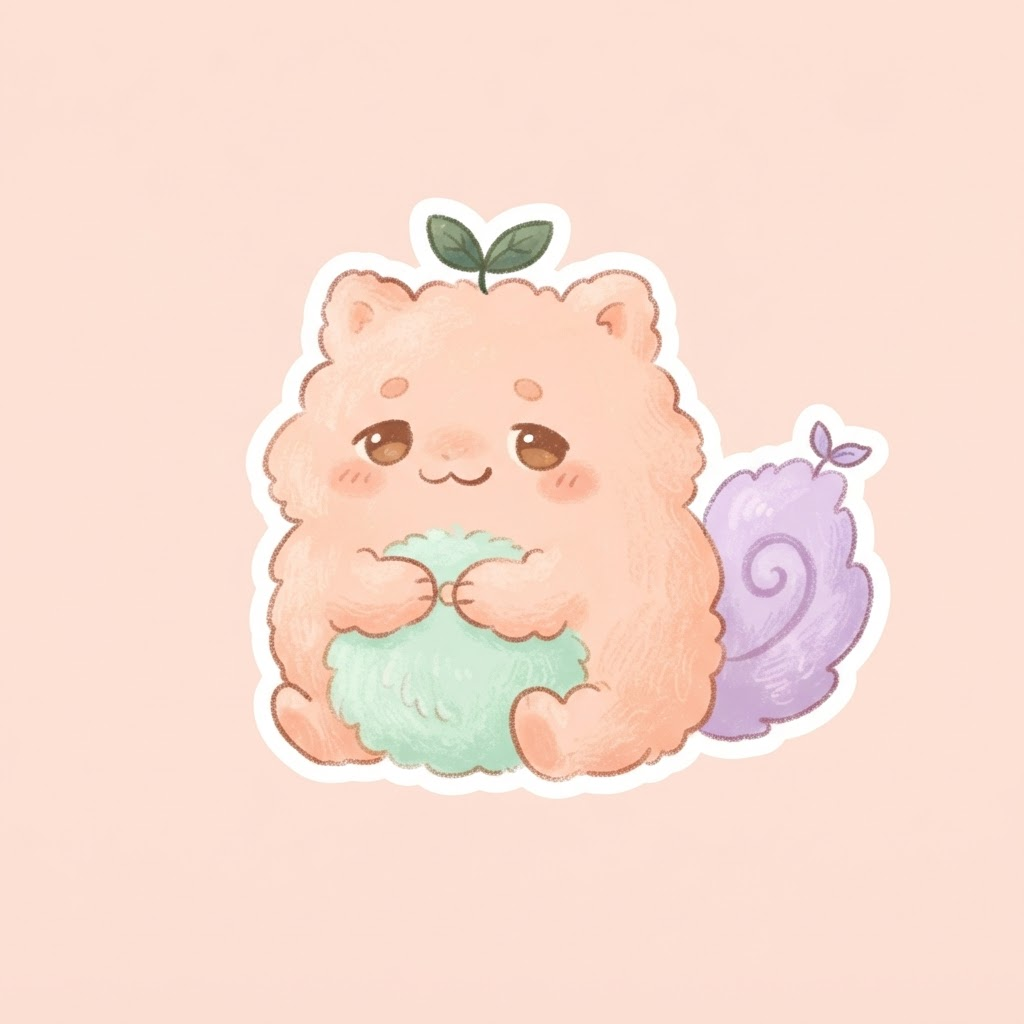
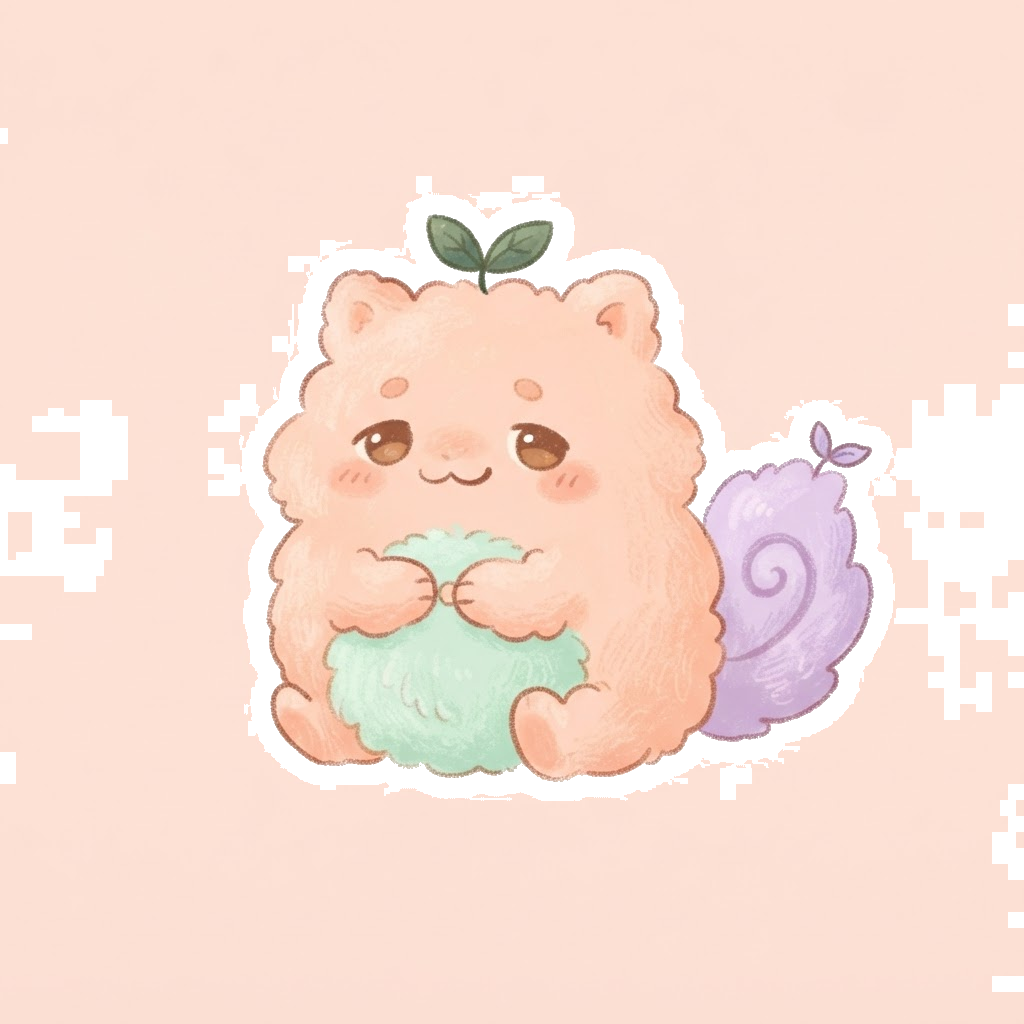
feat: update color variables and mascot animations in globals.css

diff --git a/app/globals.css b/app/globals.css
@@ -1,6 +1,6 @@
 @import url('https://fonts.googleapis.com/css2?family=Kiwi+Maru:wght@400;500&family=Nunito:wght@400;600;700;800&display=swap');
 @import 'tailwindcss';
-:root{--background:#fffaf7;--foreground:#66545d;--card:#fff;--primary:#ee9296;--muted-foreground:#a18e94;--border:#f2e5e1}*{box-sizing:border-box}body{margin:0;background:var(--background);color:var(--foreground);font-family:'Nunito','Kiwi Maru',sans-serif}button,input{font:inherit}button{cursor:pointer}.app-shell{min-height:100vh;padding:16px 14px 105px;background:radial-gradient(circle at 20% 0%,#fff0ec 0 14rem,transparent 30rem),var(--background)}.phone-content{width:100%;max-width:480px;margin:auto}.topbar{display:flex;justify-content:space-between;align-items:center;padding:5px 4px 16px}.brand-mark{color:#735f68;font-size:23px;font-weight:800;letter-spacing:-.08em}.brand-mark span{color:#e8878e}.round-button{border:1px solid var(--border);background:#fff;color:#e89099;width:40px;height:40px;border-radius:50%;display:grid;place-items:center;box-shadow:0 5px 15px #dfc7c533}.page-title{display:flex;align-items:center;justify-content:space-between;margin:2px 5px 17px}.page-title h1{margin:0;color:#63515a;font:500 25px/1.45 'Kiwi Maru',sans-serif}.page-title h1 span{color:#e78991}.eyebrow{margin:0 0 7px;color:#d78c91;font-size:10px;letter-spacing:.15em;font-weight:800}.mascot-blend{width:64px;height:64px;border-radius:25px;background:linear-gradient(135deg,#ffe2df,#fff0da);display:grid;place-items:center;overflow:hidden}.tiny-mascot{width:58px;height:58px;object-fit:contain;mix-blend-mode:multiply}.section-block,.habits-section{margin-top:27px}.welcome-card{position:relative;overflow:hidden;min-height:225px;border-radius:30px;padding:27px 22px;background:linear-gradient(135deg,#ffe2df,#fff0da);box-shadow:0 12px 30px #e3bbb640}.welcome-card h2{margin:0;color:#63515a;font:500 26px/1.45 'Kiwi Maru',sans-serif}.welcome-card h2 span{color:#e78991}.welcome-card p:not(.eyebrow){color:#876f77;font-size:13px;line-height:1.8;margin:13px 0 0}.welcome-card img{position:absolute;right:2px;bottom:-2px;width:155px;mix-blend-mode:multiply}.section-block h2,.habits-section h2{margin:0 0 16px;color:#63515a;font:500 22px/1.5 'Kiwi Maru',sans-serif}.input-grid{display:grid;grid-template-columns:1fr 1fr;gap:10px;margin-top:18px}.input-card{display:grid;gap:12px;padding:17px 14px;background:#fff;border:1px solid var(--border);border-radius:22px;color:#917d84;font-size:12px;font-weight:700;box-shadow:0 5px 15px #dfc7c526}.number-input{display:flex;align-items:baseline;gap:4px}.number-input input{width:75px;border:0;outline:0;background:transparent;color:#e3838c;font-size:30px;font-weight:800}.number-input span{font-size:12px;color:#a18e94}.primary-button{width:100%;margin-top:14px;border:0;border-radius:18px;padding:16px;background:#efa0a3;color:#fff;font-weight:800;box-shadow:0 8px 18px #eea6a64d}.chart-card{padding:20px 16px;background:#fff;border:1px solid var(--border);border-radius:26px;box-shadow:0 5px 15px #dfc7c526}.ring-wrap{display:flex;align-items:center;gap:18px}.progress-ring{width:128px;height:128px;border-radius:50%;display:grid;place-items:center;background:conic-gradient(#ef9b9e var(--progress),#f8e7e4 0)}.ring-inner{width:98px;height:98px;border-radius:50%;background:#fffaf7;display:grid;place-items:center;align-content:center}.ring-inner strong{font-size:30px;color:#e3838c}.ring-inner span,.ring-wrap small{color:#a18e94;font-size:11px}.chart-bars{height:110px;flex:1;display:flex;align-items:end;justify-content:space-between;gap:5px}.bar-column{display:grid;gap:6px;justify-items:center;color:#b09ba0;font-size:10px}.bar-track{height:82px;width:10px;border-radius:10px;background:#f8ecea;display:flex;align-items:end}.bar-fill{width:100%;border-radius:10px;background:#f2b5af}.soft-note{padding:14px 17px;border-radius:17px;background:#eef8f4;color:#78918b;font-size:12px;line-height:1.7}.soft-note strong{color:#5e9b8c}.analysis-page{text-align:center;padding:28px 12px}.analysis-page img{width:145px;height:145px;object-fit:contain;margin:0 auto 15px;mix-blend-mode:multiply}.analysis-page h2{color:#63515a;font:500 23px/1.5 'Kiwi Maru',sans-serif}.analysis-page p:not(.eyebrow){color:#917d84;line-height:1.8;font-size:13px}.insight-meter{height:10px;margin:25px 0;background:#f7e8e4;border-radius:20px;overflow:hidden}.insight-meter span{display:block;height:100%;background:#a8d9c9;border-radius:20px;transition:width .5s}.habit-list{display:grid;gap:11px}.habit-card{width:100%;display:flex;align-items:center;gap:11px;text-align:left;border:1px solid var(--border);border-radius:21px;padding:15px;background:#eaf7f2;color:#7c8d88}.habit-card.pink{background:#fff0ec}.habit-card.lavender{background:#f2effb}.habit-check{width:25px;height:25px;display:grid;place-items:center;border-radius:50%;background:#fff;color:#79b5a5;flex:none}.habit-text{display:grid;gap:4px;flex:1}.habit-text strong{color:#6b5a62;font-size:13px}.habit-text small{font-size:11px;color:#9b898e;line-height:1.5}.tip-detail{margin:-5px 8px 3px;padding:17px;border-radius:0 0 18px 18px;background:#fff;border:1px solid var(--border);border-top:0;color:#88777c;font-size:12px;line-height:1.8}.tip-detail p{margin:0 0 12px}.tip-detail button{border:0;border-radius:13px;padding:9px 13px;background:#f3b3ae;color:#fff;font-size:11px;font-weight:800}.mascot-art,.tiny-mascot{animation:mascot-float 3.6s ease-in-out infinite;transform-origin:center bottom}.expression-worried,.expression-thinking{animation:mascot-wiggle 1.8s ease-in-out infinite}.expression-cheer,.expression-happy,.expression-hello{animation:mascot-bounce 2.2s ease-in-out infinite}.expression-insight,.expression-proud{animation:mascot-float 3s ease-in-out infinite}.expression-sleepy{animation:mascot-sway 4.5s ease-in-out infinite;opacity:.92}@keyframes mascot-float{0%,100%{transform:translateY(0) rotate(-1deg)}50%{transform:translateY(-6px) rotate(1deg)}}@keyframes mascot-bounce{0%,100%{transform:translateY(0) scale(1)}35%{transform:translateY(-8px) scale(1.03)}60%{transform:translateY(0) scale(.98)}}@keyframes mascot-wiggle{0%,100%{transform:rotate(0)}25%{transform:rotate(-3deg)}75%{transform:rotate(3deg)}}@keyframes mascot-sway{0%,100%{transform:translateY(0) rotate(-2deg)}50%{transform:translateY(3px) rotate(2deg)}}@media (prefers-reduced-motion:reduce){.mascot-art,.tiny-mascot,.expression-worried,.expression-thinking,.expression-cheer,.expression-happy,.expression-hello,.expression-insight,.expression-proud,.expression-sleepy{animation:none}}.mascot-character{position:relative;display:block;animation:mascot-float 3.6s ease-in-out infinite;transform-origin:center bottom}.mascot-character>img{width:100%;height:100%;object-fit:contain;mix-blend-mode:multiply;display:block}.mascot-blend .mascot-character{width:58px;height:58px}.mascot-art{width:155px;height:155px}@keyframes mascot-breathe{0%,100%{transform:translateY(0) rotate(-1deg)}50%{transform:translateY(-5px) rotate(1deg)}}@keyframes mascot-float{0%,100%{transform:translateY(0) rotate(-1deg)}50%{transform:translateY(-6px) rotate(1deg)}}@keyframes mascot-bounce{0%,100%{transform:translateY(0) scale(1)}35%{transform:translateY(-8px) scale(1.03)}60%{transform:translateY(0) scale(.98)}}.mascot-character:active,.mascot-tapped{animation:mascot-tap .45s ease-out!important}.expression-thinking,.expression-worried{animation:mascot-wiggle 1.8s ease-in-out infinite}.expression-angry{animation:mascot-shake .5s ease-in-out infinite}@keyframes mascot-shake{0%,100%{transform:translateX(0) rotate(0)}25%{transform:translateX(-3px) rotate(-2deg)}75%{transform:translateX(3px) rotate(2deg)}}.expression-cheer,.expression-happy{animation:mascot-bounce 2.2s ease-in-out infinite}@keyframes mascot-wiggle{0%,100%{transform:rotate(0)}25%{transform:rotate(-3deg)}75%{transform:rotate(3deg)}}@keyframes mascot-tap{50%{transform:scale(1.08) rotate(-4deg)}}@media (prefers-reduced-motion:reduce){.mascot-character{animation:none}}footer{text-align:center;color:#c2abb0;font-size:11px;margin:42px 0 0}.bottom-nav{position:fixed;z-index:5;bottom:13px;left:50%;transform:translateX(-50%);width:min(calc(100% - 28px),480px);display:grid;grid-template-columns:repeat(4,1fr);gap:4px;padding:9px 7px;border:1px solid #f2e4e0;border-radius:25px;background:#fffdfbcc;backdrop-filter:blur(12px);box-shadow:0 8px 25px #d9b7b733}.bottom-nav button{display:grid;justify-items:center;gap:4px;border:0;background:transparent;color:#bda9ae;font-size:9px}.bottom-nav button.active{color:#e58c94;font-weight:800}.bottom-nav button.active svg{stroke-width:3}@media (min-width:700px){.app-shell{padding-top:28px}.phone-content{max-width:480px}}
+:root{--background:#fffaf7;--foreground:#66545d;--card:#fff;--primary:#ee9296;--muted-foreground:#a18e94;--border:#f2e5e1}*{box-sizing:border-box}body{margin:0;background:var(--background);color:var(--foreground);font-family:'Nunito','Kiwi Maru',sans-serif}button,input{font:inherit}button{cursor:pointer}.app-shell{min-height:100vh;padding:16px 14px 105px;background:radial-gradient(circle at 20% 0%,#fff0ec 0 14rem,transparent 30rem),var(--background)}.phone-content{width:100%;max-width:480px;margin:auto}.topbar{display:flex;justify-content:space-between;align-items:center;padding:5px 4px 16px}.brand-mark{color:#735f68;font-size:23px;font-weight:800;letter-spacing:-.08em}.brand-mark span{color:#e8878e}.round-button{border:1px solid var(--border);background:#fff;color:#e89099;width:40px;height:40px;border-radius:50%;display:grid;place-items:center;box-shadow:0 5px 15px #dfc7c533}.page-title{display:flex;align-items:center;justify-content:space-between;margin:2px 5px 17px}.page-title h1{margin:0;color:#63515a;font:500 25px/1.45 'Kiwi Maru',sans-serif}.page-title h1 span{color:#e78991}.eyebrow{margin:0 0 7px;color:#d78c91;font-size:10px;letter-spacing:.15em;font-weight:800}.mascot-blend{width:64px;height:64px;border-radius:25px;background:linear-gradient(135deg,#ffe2df,#fff0da);display:grid;place-items:center;overflow:hidden}.tiny-mascot{width:58px;height:58px;object-fit:contain}.section-block,.habits-section{margin-top:27px}.welcome-card{position:relative;overflow:hidden;min-height:225px;border-radius:30px;padding:27px 22px;background:linear-gradient(135deg,#ffe2df,#fff0da);box-shadow:0 12px 30px #e3bbb640}.welcome-card h2{margin:0;color:#63515a;font:500 26px/1.45 'Kiwi Maru',sans-serif}.welcome-card h2 span{color:#e78991}.welcome-card p:not(.eyebrow){color:#876f77;font-size:13px;line-height:1.8;margin:13px 0 0}.welcome-card img{position:absolute;right:2px;bottom:-2px;width:155px}.section-block h2,.habits-section h2{margin:0 0 16px;color:#63515a;font:500 22px/1.5 'Kiwi Maru',sans-serif}.input-grid{display:grid;grid-template-columns:1fr 1fr;gap:10px;margin-top:18px}.input-card{display:grid;gap:12px;padding:17px 14px;background:#fff;border:1px solid var(--border);border-radius:22px;color:#917d84;font-size:12px;font-weight:700;box-shadow:0 5px 15px #dfc7c526}.number-input{display:flex;align-items:baseline;gap:4px}.number-input input{width:75px;border:0;outline:0;background:transparent;color:#e3838c;font-size:30px;font-weight:800}.number-input span{font-size:12px;color:#a18e94}.primary-button{width:100%;margin-top:14px;border:0;border-radius:18px;padding:16px;background:#efa0a3;color:#fff;font-weight:800;box-shadow:0 8px 18px #eea6a64d}.chart-card{padding:20px 16px;background:#fff;border:1px solid var(--border);border-radius:26px;box-shadow:0 5px 15px #dfc7c526}.ring-wrap{display:flex;align-items:center;gap:18px}.progress-ring{width:128px;height:128px;border-radius:50%;display:grid;place-items:center;background:conic-gradient(#ef9b9e var(--progress),#f8e7e4 0)}.ring-inner{width:98px;height:98px;border-radius:50%;background:#fffaf7;display:grid;place-items:center;align-content:center}.ring-inner strong{font-size:30px;color:#e3838c}.ring-inner span,.ring-wrap small{color:#a18e94;font-size:11px}.chart-bars{height:110px;flex:1;display:flex;align-items:end;justify-content:space-between;gap:5px}.bar-column{display:grid;gap:6px;justify-items:center;color:#b09ba0;font-size:10px}.bar-track{height:82px;width:10px;border-radius:10px;background:#f8ecea;display:flex;align-items:end}.bar-fill{width:100%;border-radius:10px;background:#f2b5af}.soft-note{padding:14px 17px;border-radius:17px;background:#eef8f4;color:#78918b;font-size:12px;line-height:1.7}.soft-note strong{color:#5e9b8c}.analysis-page{text-align:center;padding:28px 12px}.analysis-page img{width:145px;height:145px;object-fit:contain;margin:0 auto 15px}.analysis-page h2{color:#63515a;font:500 23px/1.5 'Kiwi Maru',sans-serif}.analysis-page p:not(.eyebrow){color:#917d84;line-height:1.8;font-size:13px}.insight-meter{height:10px;margin:25px 0;background:#f7e8e4;border-radius:20px;overflow:hidden}.insight-meter span{display:block;height:100%;background:#a8d9c9;border-radius:20px;transition:width .5s}.habit-list{display:grid;gap:11px}.habit-card{width:100%;display:flex;align-items:center;gap:11px;text-align:left;border:1px solid var(--border);border-radius:21px;padding:15px;background:#eaf7f2;color:#7c8d88}.habit-card.pink{background:#fff0ec}.habit-card.lavender{background:#f2effb}.habit-check{width:25px;height:25px;display:grid;place-items:center;border-radius:50%;background:#fff;color:#79b5a5;flex:none}.habit-text{display:grid;gap:4px;flex:1}.habit-text strong{color:#6b5a62;font-size:13px}.habit-text small{font-size:11px;color:#9b898e;line-height:1.5}.tip-detail{margin:-5px 8px 3px;padding:17px;border-radius:0 0 18px 18px;background:#fff;border:1px solid var(--border);border-top:0;color:#88777c;font-size:12px;line-height:1.8}.tip-detail p{margin:0 0 12px}.tip-detail button{border:0;border-radius:13px;padding:9px 13px;background:#f3b3ae;color:#fff;font-size:11px;font-weight:800}.mascot-art,.tiny-mascot{animation:mascot-float 3.6s ease-in-out infinite;transform-origin:center bottom}.expression-worried,.expression-thinking{animation:mascot-wiggle 1.8s ease-in-out infinite}.expression-cheer,.expression-happy,.expression-hello{animation:mascot-bounce 2.2s ease-in-out infinite}.expression-insight,.expression-proud{animation:mascot-float 3s ease-in-out infinite}.expression-sleepy{animation:mascot-sway 4.5s ease-in-out infinite;opacity:.92}@keyframes mascot-float{0%,100%{transform:translateY(0) rotate(-1deg)}50%{transform:translateY(-6px) rotate(1deg)}}@keyframes mascot-bounce{0%,100%{transform:translateY(0) scale(1)}35%{transform:translateY(-8px) scale(1.03)}60%{transform:translateY(0) scale(.98)}}@keyframes mascot-wiggle{0%,100%{transform:rotate(0)}25%{transform:rotate(-3deg)}75%{transform:rotate(3deg)}}@keyframes mascot-sway{0%,100%{transform:translateY(0) rotate(-2deg)}50%{transform:translateY(3px) rotate(2deg)}}@media (prefers-reduced-motion:reduce){.mascot-art,.tiny-mascot,.expression-worried,.expression-thinking,.expression-cheer,.expression-happy,.expression-hello,.expression-insight,.expression-proud,.expression-sleepy{animation:none}}.mascot-character{position:relative;display:block;animation:mascot-float 3.6s ease-in-out infinite;transform-origin:center bottom}.mascot-character>img{width:100%;height:100%;object-fit:contain;display:block}.mascot-blend .mascot-character{width:58px;height:58px}.mascot-art{width:155px;height:155px}@keyframes mascot-breathe{0%,100%{transform:translateY(0) rotate(-1deg)}50%{transform:translateY(-5px) rotate(1deg)}}@keyframes mascot-float{0%,100%{transform:translateY(0) rotate(-1deg)}50%{transform:translateY(-6px) rotate(1deg)}}@keyframes mascot-bounce{0%,100%{transform:translateY(0) scale(1)}35%{transform:translateY(-8px) scale(1.03)}60%{transform:translateY(0) scale(.98)}}.mascot-character:active,.mascot-tapped{animation:mascot-tap .45s ease-out!important}.expression-thinking,.expression-worried{animation:mascot-wiggle 1.8s ease-in-out infinite}.expression-angry{animation:mascot-shake .5s ease-in-out infinite}@keyframes mascot-shake{0%,100%{transform:translateX(0) rotate(0)}25%{transform:translateX(-3px) rotate(-2deg)}75%{transform:translateX(3px) rotate(2deg)}}.expression-cheer,.expression-happy{animation:mascot-bounce 2.2s ease-in-out infinite}@keyframes mascot-wiggle{0%,100%{transform:rotate(0)}25%{transform:rotate(-3deg)}75%{transform:rotate(3deg)}}@keyframes mascot-tap{50%{transform:scale(1.08) rotate(-4deg)}}@media (prefers-reduced-motion:reduce){.mascot-character{animation:none}}footer{text-align:center;color:#c2abb0;font-size:11px;margin:42px 0 0}.bottom-nav{position:fixed;z-index:5;bottom:13px;left:50%;transform:translateX(-50%);width:min(calc(100% - 28px),480px);display:grid;grid-template-columns:repeat(4,1fr);gap:4px;padding:9px 7px;border:1px solid #f2e4e0;border-radius:25px;background:#fffdfbcc;backdrop-filter:blur(12px);box-shadow:0 8px 25px #d9b7b733}.bottom-nav button{display:grid;justify-items:center;gap:4px;border:0;background:transparent;color:#bda9ae;font-size:9px}.bottom-nav button.active{color:#e58c94;font-weight:800}.bottom-nav button.active svg{stroke-width:3}@media (min-width:700px){.app-shell{padding-top:28px}.phone-content{max-width:480px}}
 .analysis-loader{display:flex;gap:8px;justify-content:center;margin:8px 0 2px}
 .analysis-loader span{width:9px;height:9px;border-radius:50%;background:#eaa9ab;animation:ai-bounce 1s infinite}
 .analysis-loader span:nth-child(2){animation-delay:.15s}
